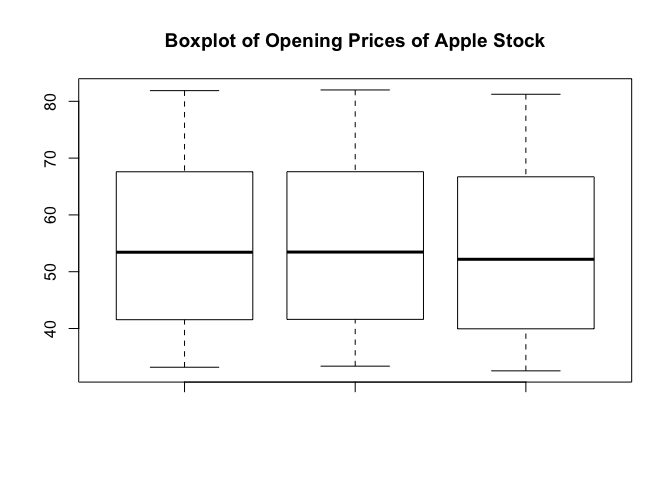
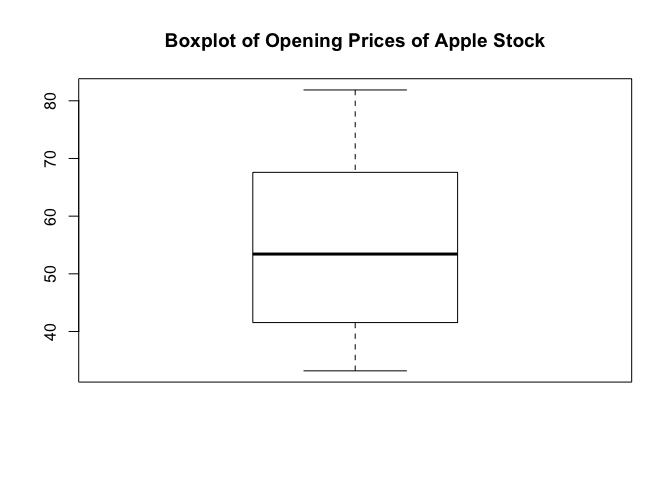
Update

diff --git a/Michelle_Law_-_Capstone.md b/Michelle_Law_-_Capstone.md
@@ -183,7 +183,7 @@ boxplot(aapl$SMA, aapl$Adj.Close, aapl$Low, aapl$High, aapl$Open, main = "Displa
 ![](Michelle_Law_-_Capstone_files/figure-markdown_github/unnamed-chunk-7-8.png)
 
 ``` r
-boxplot(aapl$Open,aapl$Close,aapl$SMA, main = "Boxplot of Opening Prices of Apple Stock")
+boxplot(aapl$Open, main = "Boxplot of Opening Prices of Apple Stock")
 ```
 
 ![](Michelle_Law_-_Capstone_files/figure-markdown_github/unnamed-chunk-7-9.png)
